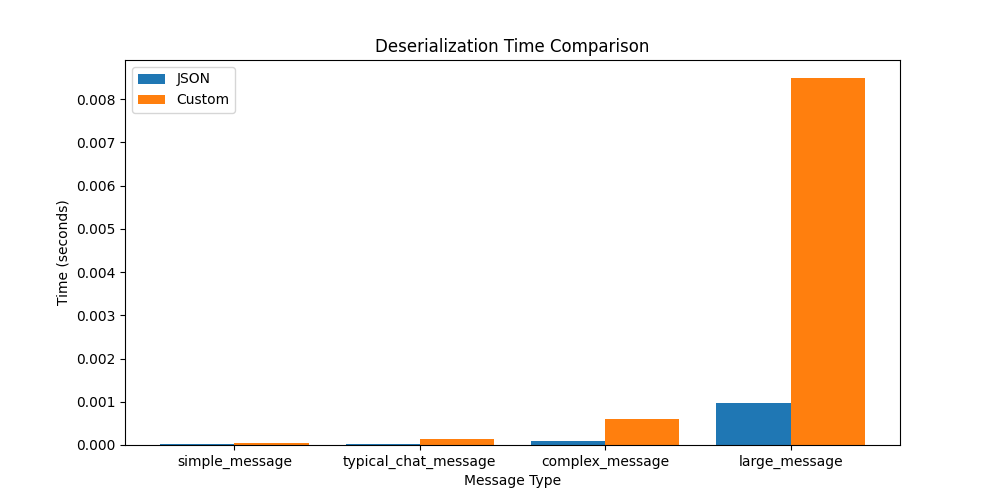
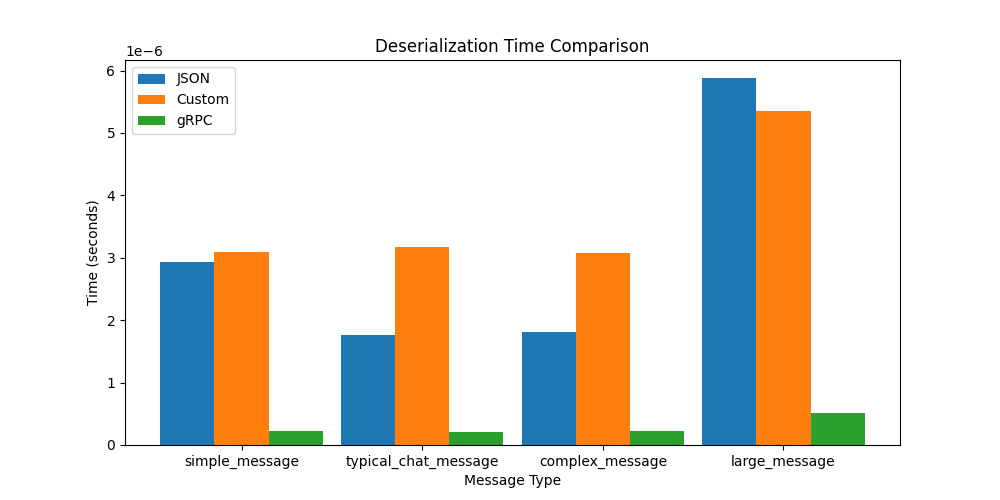
grpc benchmark

diff --git a/benchmarks/protocol/benchmark_grpc.py b/benchmarks/protocol/benchmark_grpc.py
@@ -1,0 +1,206 @@
+import time
+import statistics
+from typing import Dict, List
+import matplotlib.pyplot as plt
+import grpc
+from src.protocol.grpc import chat_pb2, chat_pb2_grpc
+from src.protocol.protocol_factory import JsonProtocol, CustomProtocol
+
+class GRPCBenchmark:
+    """Benchmark gRPC performance against JSON and Custom protocols."""
+
+    def __init__(self):
+        self.json_protocol = JsonProtocol()
+        self.custom_protocol = CustomProtocol()
+
+        # Test messages of increasing complexity aligned with proto definition
+        self.test_messages = [
+            # Simple message
+            {
+                "type": "simple_message",
+                "id": 1,
+                "sender": "user1",
+                "content": "Hello, world!",
+                "timestamp": "1644582794",
+                "read": 0
+            },
+
+            # Typical chat message
+            {
+                "type": "typical_chat_message",
+                "id": 2,
+                "sender": "user1",
+                "content": "Hey, how are you?",
+                "timestamp": "1644582795",
+                "read": 1
+            },
+
+            # Complex message
+            {
+                "type": "complex_message",
+                "id": 3,
+                "sender": "user1",
+                "content": "Meeting at 3pm",
+                "timestamp": "1644582796",
+                "read": 0
+            },
+
+            # Large message
+            {
+                "type": "large_message",
+                "id": 4,
+                "sender": "user1",
+                "content": "This is a large message with lots of content " * 100,
+                "timestamp": "1644582797",
+                "read": 1
+            }
+        ]
+
+    def measure_size(self, data: bytes) -> int:
+        """Measure size of serialized data in bytes."""
+        return len(data)
+
+    def measure_time(self, func, *args, iterations: int = 1000) -> float:
+        """Measure average execution time of a function."""
+        times = []
+        for _ in range(iterations):
+            start = time.perf_counter()
+            func(*args)
+            end = time.perf_counter()
+            times.append(end - start)
+        return statistics.mean(times)
+
+    def run_benchmarks(self) -> Dict[str, List[Dict]]:
+        """Run all benchmarks and return results."""
+        results = {
+            "json": [],
+            "custom": [],
+            "grpc": []
+        }
+
+        for i, message in enumerate(self.test_messages):
+            # JSON Protocol
+            json_serialized = self.json_protocol.serialize(message)
+            json_size = self.measure_size(json_serialized)
+            json_serialize_time = self.measure_time(self.json_protocol.serialize, message)
+            json_deserialize_time = self.measure_time(self.json_protocol.deserialize, json_serialized)
+
+            # Custom Protocol
+            custom_serialized = self.custom_protocol.serialize(message)
+            custom_size = self.measure_size(custom_serialized)
+            custom_serialize_time = self.measure_time(self.custom_protocol.serialize, message)
+            custom_deserialize_time = self.measure_time(self.custom_protocol.deserialize, custom_serialized)
+
+            # gRPC Protocol
+            grpc_message = chat_pb2.Message(
+                id=message.get("id", 0),
+                sender=message.get("sender", ""),
+                content=message.get("content", ""),
+                timestamp=message.get("timestamp", "0"),
+                read=message.get("read", 0)
+            )
+            grpc_serialized = grpc_message.SerializeToString()
+            grpc_size = self.measure_size(grpc_serialized)
+            grpc_serialize_time = self.measure_time(grpc_message.SerializeToString)
+            grpc_deserialize_time = self.measure_time(chat_pb2.Message.FromString, grpc_serialized)
+
+            # Store results
+            results["json"].append({
+                "message_type": self.test_messages[i]["type"],
+                "size": json_size,
+                "serialize_time": json_serialize_time,
+                "deserialize_time": json_deserialize_time
+            })
+
+            results["custom"].append({
+                "message_type": self.test_messages[i]["type"],
+                "size": custom_size,
+                "serialize_time": custom_serialize_time,
+                "deserialize_time": custom_deserialize_time
+            })
+
+            results["grpc"].append({
+                "message_type": self.test_messages[i]["type"],
+                "size": grpc_size,
+                "serialize_time": grpc_serialize_time,
+                "deserialize_time": grpc_deserialize_time
+            })
+
+        return results
+
+    def plot_results(self, results: Dict[str, List[Dict]]):
+        """Generate plots comparing protocol performance."""
+        message_types = [r["message_type"] for r in results["json"]]
+        x = range(len(message_types))
+
+        # Plot message sizes
+        plt.figure(figsize=(10, 5))
+        plt.bar([i - 0.3 for i in x], [r["size"] for r in results["json"]], 0.3, label="JSON")
+        plt.bar([i for i in x], [r["size"] for r in results["custom"]], 0.3, label="Custom")
+        plt.bar([i + 0.3 for i in x], [r["size"] for r in results["grpc"]], 0.3, label="gRPC")
+        plt.xlabel("Message Type")
+        plt.ylabel("Size (bytes)")
+        plt.title("Message Size Comparison")
+        plt.xticks(x, message_types)
+        plt.legend()
+        plt.savefig("benchmarks/protocol/results/size_comparison.png")
+        plt.close()
+
+        # Plot serialization times
+        plt.figure(figsize=(10, 5))
+        plt.bar([i - 0.3 for i in x], [r["serialize_time"] for r in results["json"]], 0.3, label="JSON")
+        plt.bar([i for i in x], [r["serialize_time"] for r in results["custom"]], 0.3, label="Custom")
+        plt.bar([i + 0.3 for i in x], [r["serialize_time"] for r in results["grpc"]], 0.3, label="gRPC")
+        plt.xlabel("Message Type")
+        plt.ylabel("Time (seconds)")
+        plt.title("Serialization Time Comparison")
+        plt.xticks(x, message_types)
+        plt.legend()
+        plt.savefig("benchmarks/protocol/results/serialize_time_comparison.png")
+        plt.close()
+
+        # Plot deserialization times
+        plt.figure(figsize=(10, 5))
+        plt.bar([i - 0.3 for i in x], [r["deserialize_time"] for r in results["json"]], 0.3, label="JSON")
+        plt.bar([i for i in x], [r["deserialize_time"] for r in results["custom"]], 0.3, label="Custom")
+        plt.bar([i + 0.3 for i in x], [r["deserialize_time"] for r in results["grpc"]], 0.3, label="gRPC")
+        plt.xlabel("Message Type")
+        plt.ylabel("Time (seconds)")
+        plt.title("Deserialization Time Comparison")
+        plt.xticks(x, message_types)
+        plt.legend()
+        plt.savefig("benchmarks/protocol/results/deserialize_time_comparison.png")
+        plt.close()
+
+def main():
+    """Run benchmarks and generate report."""
+    benchmark = GRPCBenchmark()
+    results = benchmark.run_benchmarks()
+    benchmark.plot_results(results)
+
+    # Print summary
+    print("\nProtocol Performance Comparison")
+    print("==============================")
+
+    for msg_type in range(len(benchmark.test_messages)):
+        json_results = results["json"][msg_type]
+        custom_results = results["custom"][msg_type]
+        grpc_results = results["grpc"][msg_type]
+
+        size_diff_json_grpc = (json_results["size"] - grpc_results["size"]) / json_results["size"] * 100
+        size_diff_custom_grpc = (custom_results["size"] - grpc_results["size"]) / custom_results["size"] * 100
+        serialize_speedup_json_grpc = json_results["serialize_time"] / grpc_results["serialize_time"]
+        serialize_speedup_custom_grpc = custom_results["serialize_time"] / grpc_results["serialize_time"]
+        deserialize_speedup_json_grpc = json_results["deserialize_time"] / grpc_results["deserialize_time"]
+        deserialize_speedup_custom_grpc = custom_results["deserialize_time"] / grpc_results["deserialize_time"]
+
+        print(f"\nMessage Type: {json_results['message_type']}")
+        print(f"Size Reduction (JSON vs gRPC): {size_diff_json_grpc:.1f}%")
+        print(f"Size Reduction (Custom vs gRPC): {size_diff_custom_grpc:.1f}%")
+        print(f"Serialization Speedup (JSON vs gRPC): {serialize_speedup_json_grpc:.1f}x")
+        print(f"Serialization Speedup (Custom vs gRPC): {serialize_speedup_custom_grpc:.1f}x")
+        print(f"Deserialization Speedup (JSON vs gRPC): {deserialize_speedup_json_grpc:.1f}x")
+        print(f"Deserialization Speedup (Custom vs gRPC): {deserialize_speedup_custom_grpc:.1f}x")
+
+if __name__ == "__main__":
+    main()
